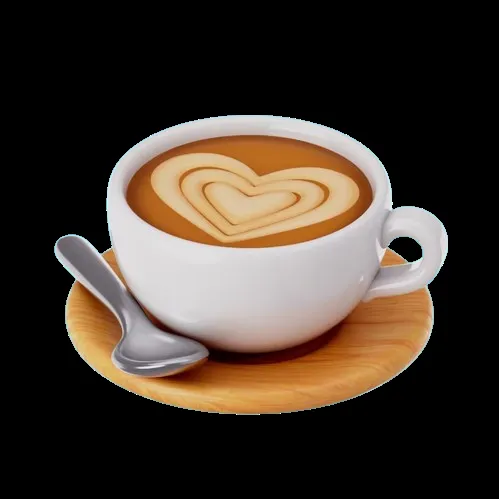
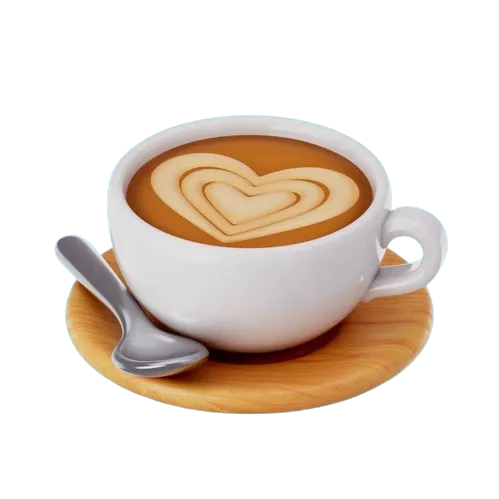
feat: photos services

diff --git a/python/main.py b/python/main.py
@@ -1,7 +1,6 @@
 from flask import Flask, jsonify, request, send_file
 from PIL import Image
 import os
-import rembg
 from io import BytesIO
 
 app = Flask(__name__)
@@ -18,38 +17,25 @@ def convert_images():
     for filename in os.listdir(STATIC_FOLDER):
         if filename.lower().endswith(('.png', '.jpg', '.jpeg')):
             filepath = os.path.join(STATIC_FOLDER, filename)
-            img = Image.open(filepath).convert('RGB')
+            img = Image.open(filepath)
+            
+            # If image has an alpha channel, ensure it's preserved
+            if img.mode in ('RGBA', 'LA') or (img.mode == 'P' and 'transparency' in img.info):
+                img = img.convert('RGBA')
+            else:
+                img = img.convert('RGB')
+            
             webp_filename = os.path.splitext(filename)[0] + '.webp'
             webp_filepath = os.path.join(STATIC_FOLDER, webp_filename)
             img.save(webp_filepath, 'webp')
             converted_images.append(webp_filename)
             # Remove the original image
             os.remove(filepath)
+            
+
+
     return jsonify({'message': 'Images have been converted to .webp format.', 'converted_images': converted_images})
 
-
-@app.route('/remove-bg', methods=['GET'])
-def remove_bg():
-    filename = request.args.get('filename')
-    if not filename:
-        return jsonify({'error': 'Filename query parameter is required.'}), 400
-
-    filepath = os.path.join(STATIC_FOLDER, filename)
-    if not os.path.exists(filepath):
-        return jsonify({'error': 'File not found.'}), 404
-
-    try:
-        input_image = Image.open(filepath)
-        output_image = rembg.remove(input_image)
-
-        output_buffer = BytesIO()
-        output_image.save(output_buffer, format='PNG')
-        output_buffer.seek(0)
-
-        return send_file(output_buffer, mimetype='image/png', as_attachment=True, download_name=f"no_bg_{filename}")
-
-    except Exception as e:
-        return jsonify({'error': str(e)}), 500
 
 
 if __name__ == '__main__':
